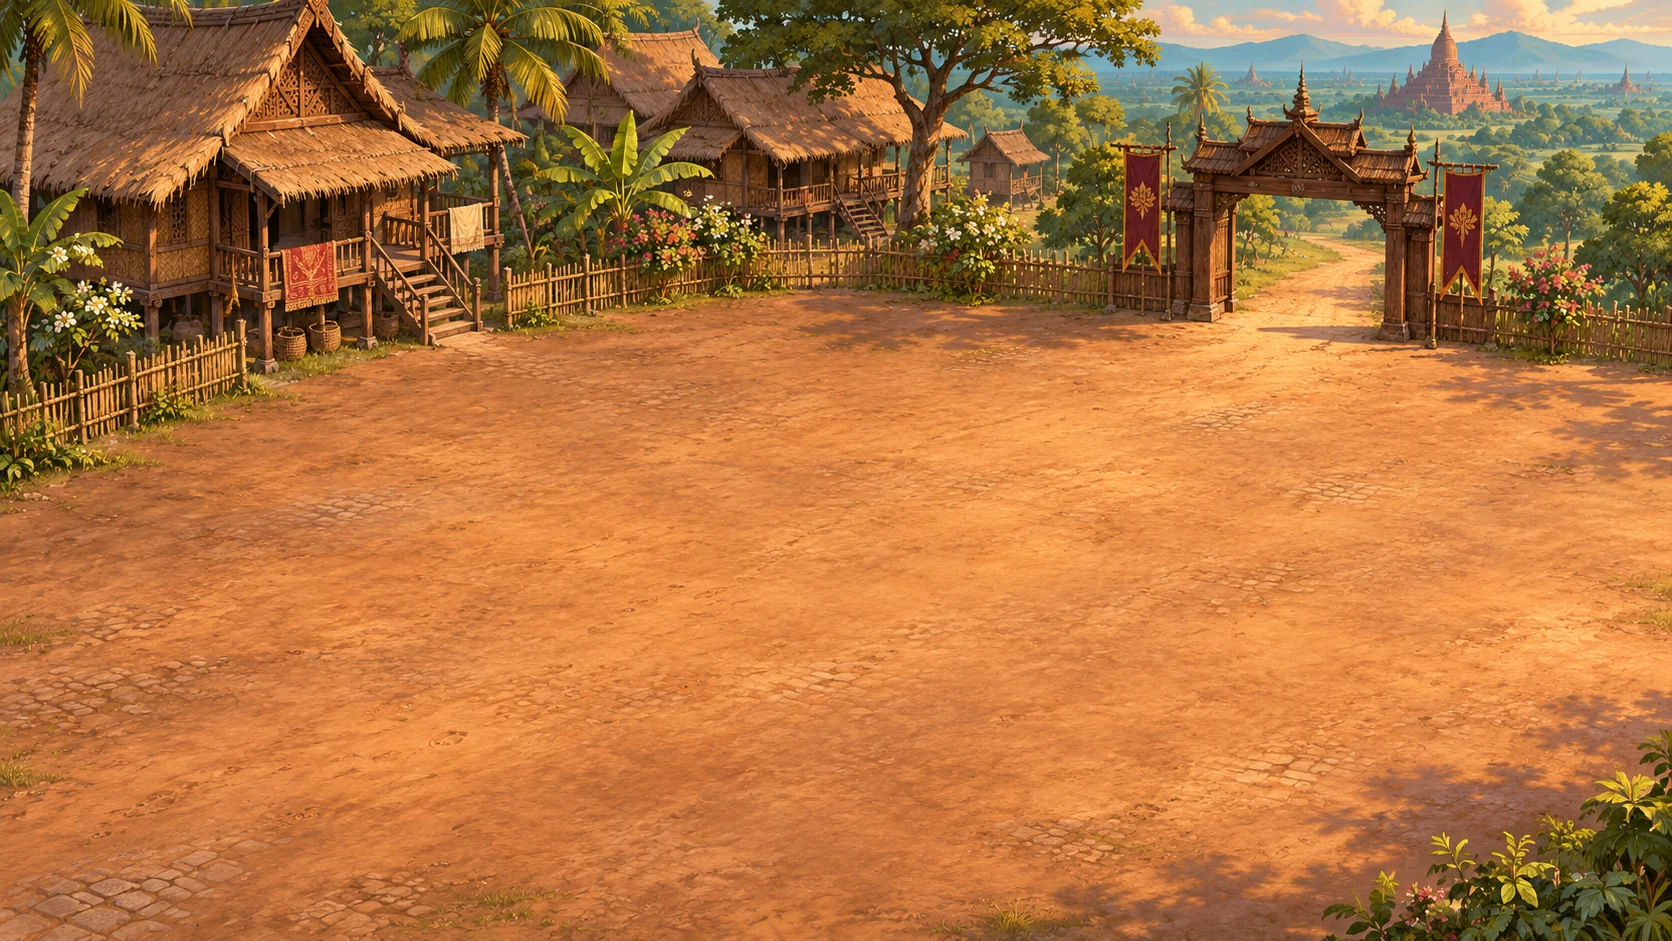
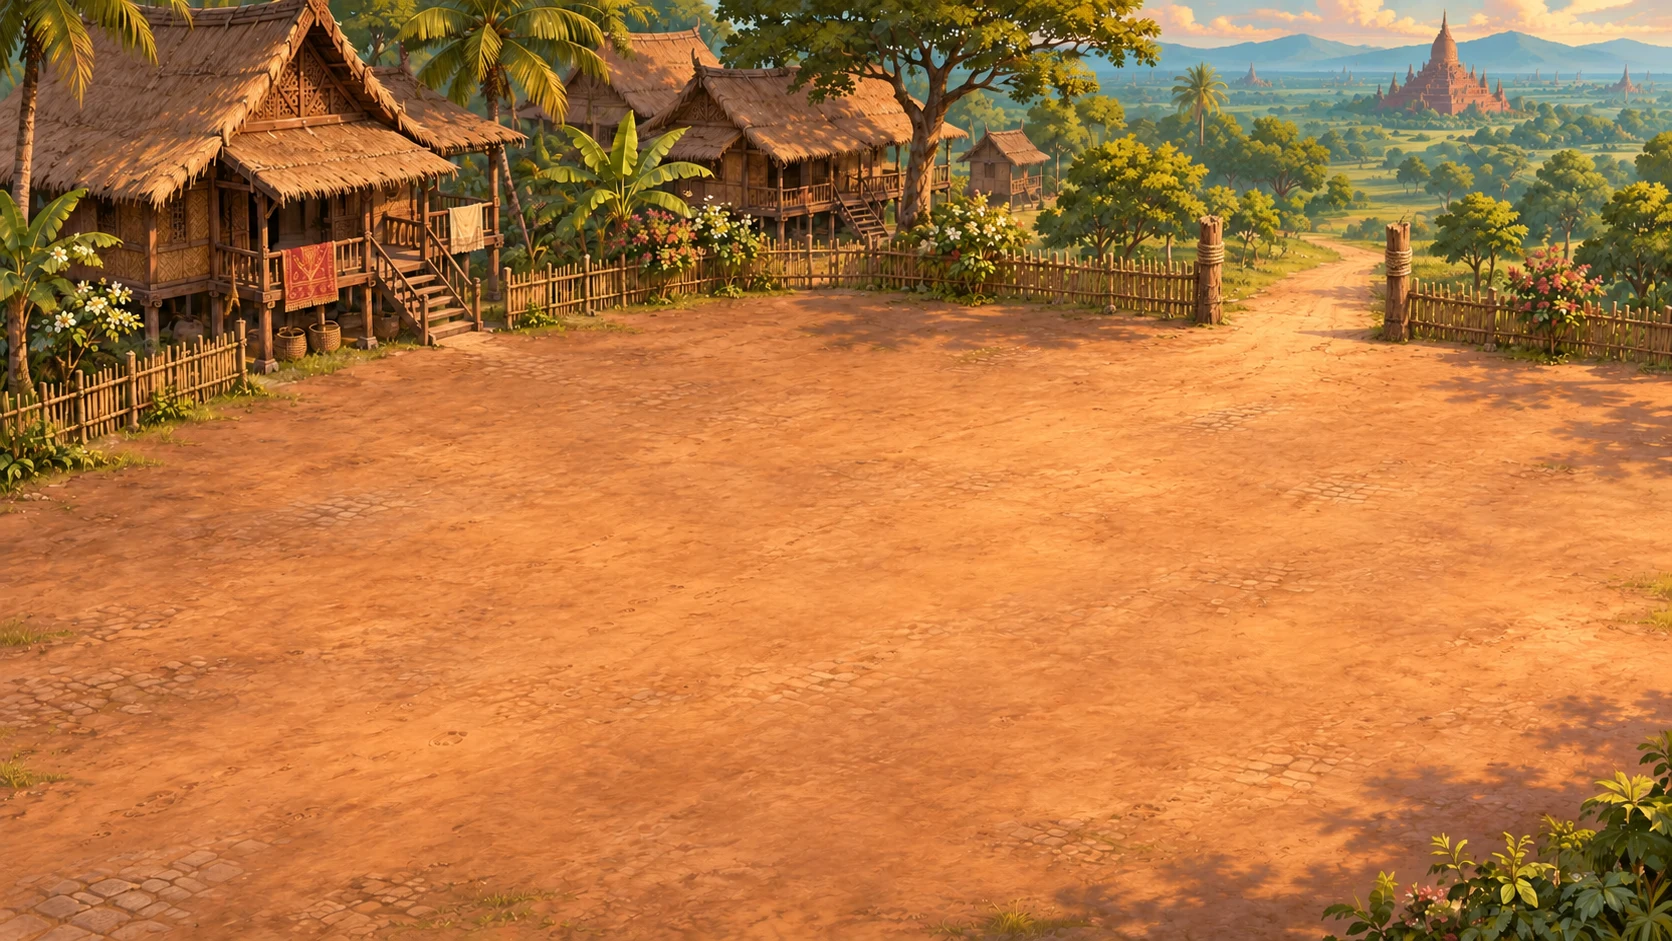
Replace the ceremonial gate with a rural bamboo village entrance

diff --git a/village-escape.html b/village-escape.html
@@ -22,10 +22,10 @@
       <div class="numbers"><span>STR <b id="strength"></b></span><span>DEF <b id="defense"></b></span></div><p id="effects"></p></section>
       <nav class="commands" aria-label="Battle commands"><button data-command="move">Move</button><button data-command="attack">Attack</button><button data-command="skill">Skill</button><button data-command="valor" hidden>Valor</button><button data-command="herb">Herb</button><button data-command="wait">Wait</button></nav>
     </aside>
-    <div class="objective"><strong>Village gate</strong><span id="progress"></span></div>
+    <div class="objective"><strong>Village entrance</strong><span id="progress"></span></div>
     <section id="gateTalk" class="gate-talk" hidden aria-label="Gate dialogue"><img id="gateFace" alt=""><div aria-live="polite"><strong id="gateSpeaker"></strong><p id="gateLine"></p></div><button id="gateNext" type="button">Continue</button></section>
     <div class="outcome" id="outcome" hidden><div><small>Escape from the Village</small><h2 id="resultTitle"></h2><p id="resultBody"></p><button id="replay">Play again</button><a href="game.html">Game page</a></div></div>
   </div>
   <div class="battle-footer"><div class="status"><small>Battle log</small><p id="message" aria-live="polite"></p></div><div class="roster" id="roster" aria-label="Inspect units"></div><button id="endTurn">End turn</button></div>
-  <dialog id="brief"><h2>Field guide</h2><p>The road spans 16 × 10 tiles. A level-60 Legend Royal Commander and two soldiers hold the gate. Three soldiers approach from behind. All five soldiers start at level 45 Elite. Use the open lanes to change formation or flank a guard. Guide all three relatives to a gold gate tile, or defeat the commander and all five soldiers. An escaped relative leaves the battlefield.</p><p>Each relative can move up to three tiles and take one action per round, in either order. Choose a portrait, then a command and a highlighted tile or target. End turn lets the guards respond.</p><p>Fists and swords reach one tile. Spears also reach two in a straight line. Weapon skills cost 15% of maximum MP. Two shared herbs each restore up to 35% of the user’s HP.</p><p><strong>Family skills.</strong> Min Sithu alternates Bal Wike Let Thee and Nyar Wike Let Thee (<span lang="my">ဘယ် / ညာ ဝိုက်လက်သီး</span>). Each use delivers one left or right hook for 1.5× damage. His Valor uses his action to give every active relative +10% STR and DEF for five rounds. It costs no MP and is ready again the round it expires. Nga Tint’s Mighty Chop deals 2× damage, with a 20% chance of 5× instead. Nga Pyae Wa’s Triple Thrust delivers up to three spear hits for normal damage each. A surviving target is dazed for its next enemy phase. Royal spear guards can use Double Thrust for two hits when they have enough MP and a single attack would leave the target standing.</p><p><strong>Royal Commander.</strong> The commander pursues the family with his sword, alternating Cross Slash (two hits) and a regular strike while MP lasts. He prioritizes Battle Frenzy and attacks before using potions. His first Battle Frenzy has a 50% chance on turns 1 and 2 and is guaranteed from turn 3 as soon as he can act and boost a soldier. Later eligible rounds have a 50% chance. After two missed rolls he uses Battle Frenzy on the next eligible turn. Each cast permanently adds up to 10 levels to each surviving soldier, capped at the commander’s level of 60, and starts a five-turn cooldown. The commander also carries three potions. Each heals a living member of his side for up to 100 HP. Casting or healing uses his action.</p><p>Physical damage = STR × STR ÷ (STR + target DEF), rounded down with a minimum of 1. Keyboard users can focus the board, move the tile cursor with the arrow keys, and press Enter.</p><button id="closeGuide">Return to mission</button></dialog>
+  <dialog id="brief"><h2>Field guide</h2><p>The road spans 16 × 10 tiles. A level-60 Legend Royal Commander and two soldiers hold the entrance. Three soldiers approach from behind. All five soldiers start at level 45 Elite. Use the open lanes to change formation or flank a guard. Guide all three relatives to a gold entrance tile, or defeat the commander and all five soldiers. An escaped relative leaves the battlefield.</p><p>Each relative can move up to three tiles and take one action per round, in either order. Choose a portrait, then a command and a highlighted tile or target. End turn lets the guards respond.</p><p>Fists and swords reach one tile. Spears also reach two in a straight line. Weapon skills cost 15% of maximum MP. Two shared herbs each restore up to 35% of the user’s HP.</p><p><strong>Family skills.</strong> Min Sithu alternates Bal Wike Let Thee and Nyar Wike Let Thee (<span lang="my">ဘယ် / ညာ ဝိုက်လက်သီး</span>). Each use delivers one left or right hook for 1.5× damage. His Valor uses his action to give every active relative +10% STR and DEF for five rounds. It costs no MP and is ready again the round it expires. Nga Tint’s Mighty Chop deals 2× damage, with a 20% chance of 5× instead. Nga Pyae Wa’s Triple Thrust delivers up to three spear hits for normal damage each. A surviving target is dazed for its next enemy phase. Royal spear guards can use Double Thrust for two hits when they have enough MP and a single attack would leave the target standing.</p><p><strong>Royal Commander.</strong> The commander pursues the family with his sword, alternating Cross Slash (two hits) and a regular strike while MP lasts. He prioritizes Battle Frenzy and attacks before using potions. His first Battle Frenzy has a 50% chance on turns 1 and 2 and is guaranteed from turn 3 as soon as he can act and boost a soldier. Later eligible rounds have a 50% chance. After two missed rolls he uses Battle Frenzy on the next eligible turn. Each cast permanently adds up to 10 levels to each surviving soldier, capped at the commander’s level of 60, and starts a five-turn cooldown. The commander also carries three potions. Each heals a living member of his side for up to 100 HP. Casting or healing uses his action.</p><p>Physical damage = STR × STR ÷ (STR + target DEF), rounded down with a minimum of 1. Keyboard users can focus the board, move the tile cursor with the arrow keys, and press Enter.</p><button id="closeGuide">Return to mission</button></dialog>
 </main></body></html>

diff --git a/village-escape.js b/village-escape.js
@@ -381,7 +381,7 @@ function display() {
   get('outcome').hidden=!result || busy;
   if(result) {
     get('resultTitle').textContent=result==='lost'?'GAME OVER!':'Mission complete';
-    get('resultBody').textContent={escaped:'All three made it through the village gate.','defeated-guards':'The commander and all five soldiers have been defeated. The road is open.',lost:'No family member remains on the field to complete the escape.'}[result];
+    get('resultBody').textContent={escaped:'All three made it through the village entrance.','defeated-guards':'The commander and all five soldiers have been defeated. The road is open.',lost:'No family member remains on the field to complete the escape.'}[result];
   }
   paint();
 }
@@ -412,7 +412,7 @@ async function setMode(cmd) {
   } else {
     mode=cmd;
     const action=cmd==='skill'?villageSkillName(selected)+' · '+skillCost(selected)+' MP':cmd==='attack'?selected.weapon:'';
-    showStatus(cmd==='move'?'Choose a blue tile. Gold tiles mark the escape gate.':action+' · '+(battle.targets(selected).length?'Choose a highlighted guard.':'Move closer to a guard.'));
+    showStatus(cmd==='move'?'Choose a blue tile. Gold tiles mark the village entrance.':action+' · '+(battle.targets(selected).length?'Choose a highlighted guard.':'Move closer to a guard.'));
   }
   display();
 }
@@ -481,7 +481,7 @@ async function activate(x,y,unit=battle.at(x,y)) {
     busy=true;display();await walk(selected,x,y,session);
     if(session!==battle) return;
 
-    showStatus(selected.name+(selected.escaped?' reached the village gate.':' moved. Choose an action or another relative.'));
+    showStatus(selected.name+(selected.escaped?' reached the village entrance.':' moved. Choose an action or another relative.'));
     if(selected.escaped) selected=battle.family.find(standing) || selected;
     inspected=selected;mode=selected.moved?'attack':'move';
   } else {showStatus(mode==='move'?'Choose an unoccupied blue tile within three steps.':'Choose a guard highlighted in gold.');return;}
@@ -595,7 +595,7 @@ function start() {
     const img=document.createElement('img');img.src=portraitPath(unit);img.alt='';b.append(img);
     b.onclick=()=>activate(unit.x,unit.y,unit);roster.append(b);
   }
-  showStatus('The level-60 commander holds the gate. Escape with all three relatives or defeat all six enemies.');
+  showStatus('The level-60 commander holds the entrance. Escape with all three relatives or defeat all six enemies.');
   display();
 }
 function pick(event) {

diff --git a/game.html b/game.html
@@ -47,7 +47,7 @@
     </section>
     <section class="tactics-spread tactics-village" aria-labelledby="village-mission">
       <div><h2 id="village-mission">Escape from the Village</h2>
-        <p>A level-60 Royal Commander and two soldiers hold the gate. Three more close in behind Min Sithu and his sons. Escape before Battle Frenzy makes the soldiers stronger.</p>
+        <p>A level-60 Royal Commander and two soldiers hold the entrance. Three more close in behind Min Sithu and his sons. Escape before Battle Frenzy makes the soldiers stronger.</p>
         <a href="village-escape.html">Play Escape from the Village</a>
       </div>
       <a class="tactics-battle" href="village-escape.html" aria-label="Play Escape from the Village"><img src="assets/game/village/mission-screenshot.webp" width="1363" height="916" alt="Escape from the Village in play. General Min Sithu and his sons face the Royal Commander and five soldiers on the village road."></a>
